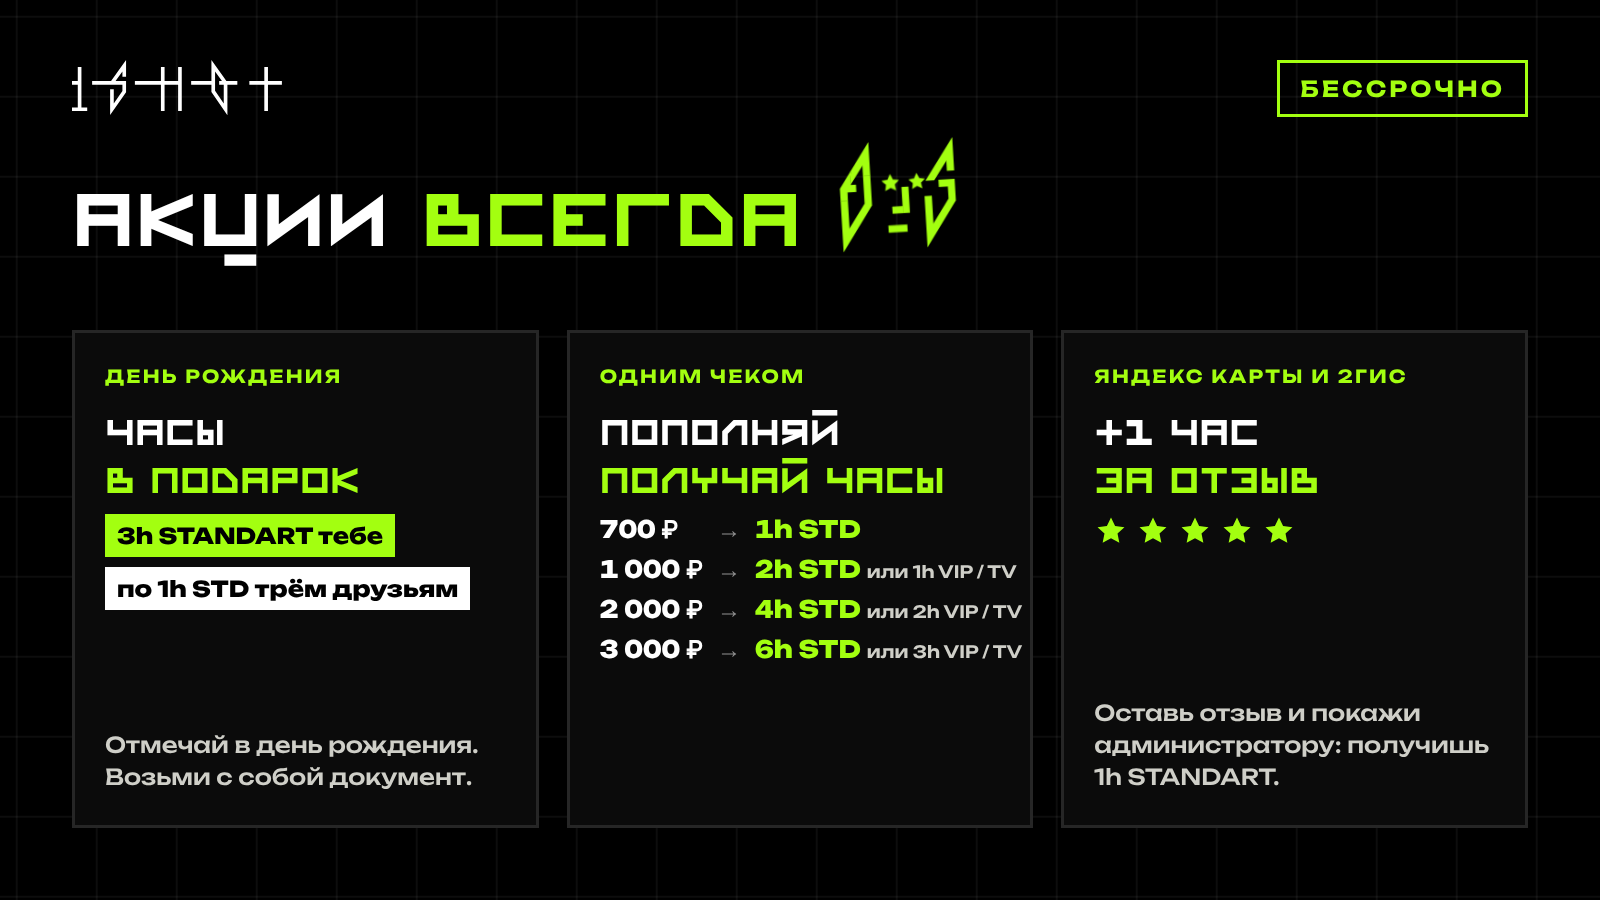
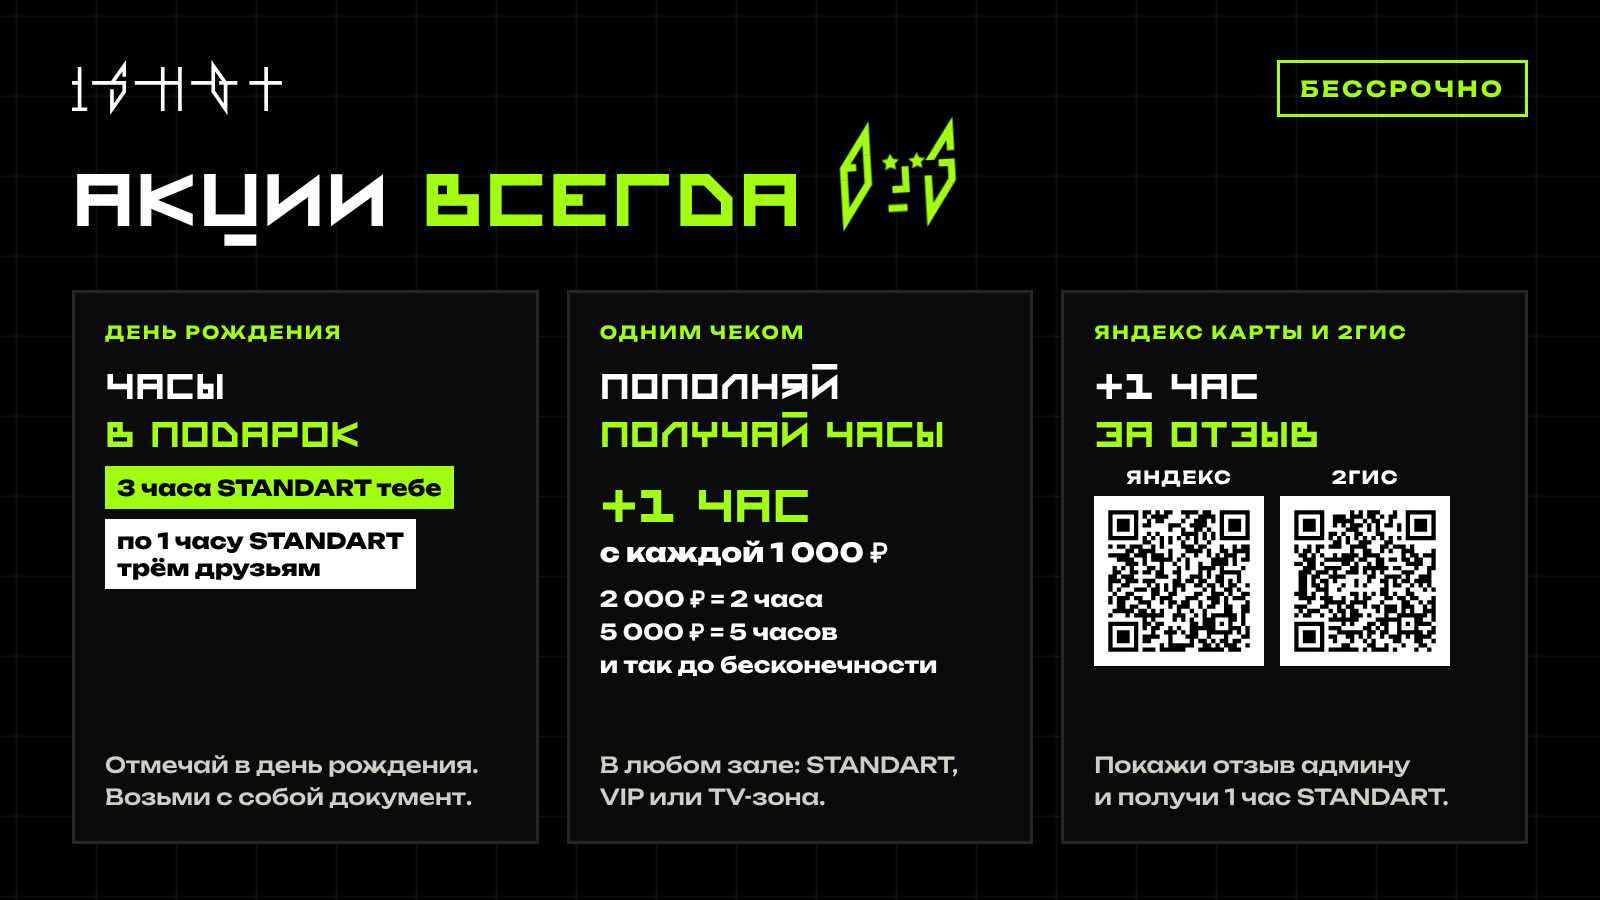
Gizmo news: simpler top-up rule, review QR codes, centred Telegram QR, full wording
Claude-Session: https://claude.ai/code/session_01PJSmFDhLML8SMzqyY2Sugp

diff --git a/docs/gizmo-news/0-always.html b/docs/gizmo-news/0-always.html
@@ -61,12 +61,18 @@ h1 .lime{color:var(--lime)}
 @keyframes canfloat{0%,100%{translate:0 0}50%{translate:0 -12px}}
 .age{display:inline-block;border:3px solid var(--lime);color:var(--lime);font:800 20px Unb;padding:4px 10px;margin-left:10px;vertical-align:middle}
 .m-stars #eyeL,.m-stars #eyeR{transform-box:fill-box;transform-origin:center;animation:twinkle 1.6s ease-in-out infinite}.m-stars #eyeR{animation-delay:.4s}
+.head{top:130px}.cards{top:290px;bottom:56px}.card{gap:14px;padding:28px 30px}
+.chip{line-height:1.25}
 .card h2{font-size:50px}
 .tb{display:grid;grid-template-columns:auto auto 1fr;gap:10px 14px;align-items:center;font:800 24px Unb;font-variant-numeric:tabular-nums;white-space:nowrap}
 .tb .a{color:var(--muted);font-weight:700}.tb .h{color:var(--lime)}
 .tb .o{font:600 17px Unb;color:#cfcfc8}
 .chip{display:inline-block;background:var(--lime);color:#000;font:800 22px Unb;padding:8px 12px}.chip.w{background:#fff}
 .chips{display:grid;gap:10px;justify-items:start}
+.plus1{display:grid;gap:6px}.plus1 b{font:700 64px/1 ReSquare,Unb;color:var(--lime)}.plus1 span{font:800 26px Unb}
+.ex{font:700 22px/1.5 Unb;color:#fff}
+.qrs{display:flex;gap:16px}.qrs>div{display:grid;gap:8px;justify-items:center;font:700 18px Unb;text-transform:uppercase;letter-spacing:.08em}
+.qrs .qrbox{padding:10px}.qrs .qr{width:150px;height:150px}
 .stars{display:flex;gap:8px}.star{width:34px;height:34px;fill:var(--lime);animation:star .5s ease both}
 @keyframes star{from{fill:#1a1a1a;transform:scale(.8)}to{fill:var(--lime);transform:scale(1)}}
 </style></head><body>
@@ -96,9 +102,9 @@ h1 .lime{color:var(--lime)}
 </g>
 </svg></div>
 <div class="cards">
- <div class="card" style="animation-delay:.6s"><i class="glow"></i><span class="d">День рождения</span><h2>Часы<br><span class="lime">в подарок</span></h2><div class="chips"><span class="chip">3h STANDART тебе</span><span class="chip w">по 1h STD трём друзьям</span></div><p class="note">Отмечай в день рождения.<br>Возьми с собой документ.</p></div>
- <div class="card" style="animation-delay:.8s"><i class="glow" style="animation-delay:1.5s"></i><span class="d">Одним чеком</span><h2>Пополняй<br><span class="lime">получай часы</span></h2><div class="tb"><span>700 ₽</span><span class="a">→</span><span class="h">1h STD</span><span>1 000 ₽</span><span class="a">→</span><span class="h">2h STD <span class="o">или 1h VIP / TV</span></span><span>2 000 ₽</span><span class="a">→</span><span class="h">4h STD <span class="o">или 2h VIP / TV</span></span><span>3 000 ₽</span><span class="a">→</span><span class="h">6h STD <span class="o">или 3h VIP / TV</span></span></div></div>
- <div class="card" style="animation-delay:1s"><i class="glow" style="animation-delay:3s"></i><span class="d">Яндекс Карты и 2ГИС</span><h2>+1 час<br><span class="lime">за отзыв</span></h2><div class="stars"><svg class="star" style="animation-delay:1.2s" viewBox="0 0 24 24"><path d="M12 2.5l2.9 6 6.6.8-4.9 4.5 1.3 6.5L12 17.1l-5.9 3.2 1.3-6.5L2.5 9.3l6.6-.8z"/></svg><svg class="star" style="animation-delay:1.3499999999999999s" viewBox="0 0 24 24"><path d="M12 2.5l2.9 6 6.6.8-4.9 4.5 1.3 6.5L12 17.1l-5.9 3.2 1.3-6.5L2.5 9.3l6.6-.8z"/></svg><svg class="star" style="animation-delay:1.5s" viewBox="0 0 24 24"><path d="M12 2.5l2.9 6 6.6.8-4.9 4.5 1.3 6.5L12 17.1l-5.9 3.2 1.3-6.5L2.5 9.3l6.6-.8z"/></svg><svg class="star" style="animation-delay:1.65s" viewBox="0 0 24 24"><path d="M12 2.5l2.9 6 6.6.8-4.9 4.5 1.3 6.5L12 17.1l-5.9 3.2 1.3-6.5L2.5 9.3l6.6-.8z"/></svg><svg class="star" style="animation-delay:1.7999999999999998s" viewBox="0 0 24 24"><path d="M12 2.5l2.9 6 6.6.8-4.9 4.5 1.3 6.5L12 17.1l-5.9 3.2 1.3-6.5L2.5 9.3l6.6-.8z"/></svg></div><p class="note">Оставь отзыв и покажи<br>администратору: получишь<br>1h STANDART.</p></div>
+ <div class="card" style="animation-delay:.6s"><i class="glow"></i><span class="d">День рождения</span><h2>Часы<br><span class="lime">в подарок</span></h2><div class="chips"><span class="chip">3 часа STANDART тебе</span><span class="chip w">по 1 часу STANDART<br>трём друзьям</span></div><p class="note">Отмечай в день рождения.<br>Возьми с собой документ.</p></div>
+ <div class="card" style="animation-delay:.8s"><i class="glow" style="animation-delay:1.5s"></i><span class="d">Одним чеком</span><h2>Пополняй<br><span class="lime">получай часы</span></h2><div class="plus1"><b>+1 час</b><span>с каждой 1 000 ₽</span></div><p class="ex">2 000 ₽ = 2 часа<br>5 000 ₽ = 5 часов<br>и так до бесконечности</p><p class="note">В любом зале: STANDART,<br>VIP или TV-зона.</p></div>
+ <div class="card" style="animation-delay:1s"><i class="glow" style="animation-delay:3s"></i><span class="d">Яндекс Карты и 2ГИС</span><h2>+1 час<br><span class="lime">за отзыв</span></h2><div class="qrs"><div><span>Яндекс</span><div class="qrbox"><svg class="qr" viewBox="0 0 35 35" aria-label="QR-код"><rect width="35" height="35" fill="#fff"/><path d="M1,1H2V2H1zM2,1H3V2H2zM3,1H4V2H3zM4,1H5V2H4zM5,1H6V2H5zM6,1H7V2H6zM7,1H8V2H7zM9,1H10V2H9zM10,1H11V2H10zM12,1H13V2H12zM14,1H15V2H14zM15,1H16V2H15zM18,1H19V2H18zM19,1H20V2H19zM20,1H21V2H20zM21,1H22V2H21zM23,1H24V2H23zM24,1H25V2H24zM27,1H28V2H27zM28,1H29V2H28zM29,1H30V2H29zM30,1H31V2H30zM31,1H32V2H31zM32,1H33V2H32zM33,1H34V2H33zM1,2H2V3H1zM7,2H8V3H7zM9,2H10V3H9zM11,2H12V3H11zM12,2H13V3H12zM13,2H14V3H13zM14,2H15V3H14zM19,2H20V3H19zM22,2H23V3H22zM23,2H24V3H23zM24,2H25V3H24zM25,2H26V3H25zM27,2H28V3H27zM33,2H34V3H33zM1,3H2V4H1zM3,3H4V4H3zM4,3H5V4H4zM5,3H6V4H5zM7,3H8V4H7zM10,3H11V4H10zM12,3H13V4H12zM13,3H14V4H13zM18,3H19V4H18zM21,3H22V4H21zM22,3H23V4H22zM23,3H24V4H23zM25,3H26V4H25zM27,3H28V4H27zM29,3H30V4H29zM30,3H31V4H30zM31,3H32V4H31zM33,3H34V4H33zM1,4H2V5H1zM3,4H4V5H3zM4,4H5V5H4zM5,4H6V5H5zM7,4H8V5H7zM9,4H10V5H9zM10,4H11V5H10zM15,4H16V5H15zM16,4H17V5H16zM17,4H18V5H17zM20,4H21V5H20zM21,4H22V5H21zM22,4H23V5H22zM23,4H24V5H23zM27,4H28V5H27zM29,4H30V5H29zM30,4H31V5H30zM31,4H32V5H31zM33,4H34V5H33zM1,5H2V6H1zM3,5H4V6H3zM4,5H5V6H4zM5,5H6V6H5zM7,5H8V6H7zM15,5H16V6H15zM18,5H19V6H18zM21,5H22V6H21zM22,5H23V6H22zM24,5H25V6H24zM27,5H28V6H27zM29,5H30V6H29zM30,5H31V6H30zM31,5H32V6H31zM33,5H34V6H33zM1,6H2V7H1zM7,6H8V7H7zM10,6H11V7H10zM12,6H13V7H12zM18,6H19V7H18zM19,6H20V7H19zM20,6H21V7H20zM21,6H22V7H21zM23,6H24V7H23zM25,6H26V7H25zM27,6H28V7H27zM33,6H34V7H33zM1,7H2V8H1zM2,7H3V8H2zM3,7H4V8H3zM4,7H5V8H4zM5,7H6V8H5zM6,7H7V8H6zM7,7H8V8H7zM9,7H10V8H9zM11,7H12V8H11zM13,7H14V8H13zM15,7H16V8H15zM17,7H18V8H17zM19,7H20V8H19zM21,7H22V8H21zM23,7H24V8H23zM25,7H26V8H25zM27,7H28V8H27zM28,7H29V8H28zM29,7H30V8H29zM30,7H31V8H30zM31,7H32V8H31zM32,7H33V8H32zM33,7H34V8H33zM9,8H10V9H9zM10,8H11V9H10zM13,8H14V9H13zM15,8H16V9H15zM18,8H19V9H18zM21,8H22V9H21zM24,8H25V9H24zM1,9H2V10H1zM3,9H4V10H3zM4,9H5V10H4zM6,9H7V10H6zM7,9H8V10H7zM8,9H9V10H8zM11,9H12V10H11zM13,9H14V10H13zM18,9H19V10H18zM19,9H20V10H19zM20,9H21V10H20zM22,9H23V10H22zM23,9H24V10H23zM27,9H28V10H27zM30,9H31V10H30zM32,9H33V10H32zM33,9H34V10H33zM5,10H6V11H5zM6,10H7V11H6zM8,10H9V11H8zM9,10H10V11H9zM10,10H11V11H10zM11,10H12V11H11zM15,10H16V11H15zM19,10H20V11H19zM20,10H21V11H20zM21,10H22V11H21zM22,10H23V11H22zM24,10H25V11H24zM27,10H28V11H27zM28,10H29V11H28zM30,10H31V11H30zM31,10H32V11H31zM32,10H33V11H32zM33,10H34V11H33zM1,11H2V12H1zM2,11H3V12H2zM3,11H4V12H3zM4,11H5V12H4zM5,11H6V12H5zM7,11H8V12H7zM8,11H9V12H8zM9,11H10V12H9zM11,11H12V12H11zM12,11H13V12H12zM13,11H14V12H13zM15,11H16V12H15zM18,11H19V12H18zM21,11H22V12H21zM24,11H25V12H24zM26,11H27V12H26zM28,11H29V12H28zM29,11H30V12H29zM30,11H31V12H30zM33,11H34V12H33zM3,12H4V13H3zM4,12H5V13H4zM5,12H6V13H5zM6,12H7V13H6zM9,12H10V13H9zM11,12H12V13H11zM12,12H13V13H12zM13,12H14V13H13zM14,12H15V13H14zM15,12H16V13H15zM17,12H18V13H17zM19,12H20V13H19zM25,12H26V13H25zM26,12H27V13H26zM27,12H28V13H27zM28,12H29V13H28zM30,12H31V13H30zM32,12H33V13H32zM33,12H34V13H33zM5,13H6V14H5zM6,13H7V14H6zM7,13H8V14H7zM9,13H10V14H9zM13,13H14V14H13zM16,13H17V14H16zM19,13H20V14H19zM22,13H23V14H22zM25,13H26V14H25zM26,13H27V14H26zM27,13H28V14H27zM28,13H29V14H28zM30,13H31V14H30zM2,14H3V15H2zM4,14H5V15H4zM6,14H7V15H6zM10,14H11V15H10zM11,14H12V15H11zM13,14H14V15H13zM17,14H18V15H17zM19,14H20V15H19zM22,14H23V15H22zM23,14H24V15H23zM24,14H25V15H24zM25,14H26V15H25zM27,14H28V15H27zM32,14H33V15H32zM2,15H3V16H2zM3,15H4V16H3zM6,15H7V16H6zM7,15H8V16H7zM9,15H10V16H9zM10,15H11V16H10zM12,15H13V16H12zM13,15H14V16H13zM16,15H17V16H16zM17,15H18V16H17zM22,15H23V16H22zM24,15H25V16H24zM27,15H28V16H27zM28,15H29V16H28zM29,15H30V16H29zM30,15H31V16H30zM31,15H32V16H31zM1,16H2V17H1zM2,16H3V17H2zM4,16H5V17H4zM5,16H6V17H5zM6,16H7V17H6zM12,16H13V17H12zM13,16H14V17H13zM14,16H15V17H14zM17,16H18V17H17zM20,16H21V17H20zM21,16H22V17H21zM22,16H23V17H22zM24,16H25V17H24zM26,16H27V17H26zM27,16H28V17H27zM31,16H32V17H31zM1,17H2V18H1zM2,17H3V18H2zM3,17H4V18H3zM5,17H6V18H5zM6,17H7V18H6zM7,17H8V18H7zM9,17H10V18H9zM10,17H11V18H10zM11,17H12V18H11zM16,17H17V18H16zM17,17H18V18H17zM19,17H20V18H19zM20,17H21V18H20zM22,17H23V18H22zM23,17H24V18H23zM26,17H27V18H26zM27,17H28V18H27zM29,17H30V18H29zM31,17H32V18H31zM1,18H2V19H1zM4,18H5V19H4zM5,18H6V19H5zM10,18H11V19H10zM12,18H13V19H12zM14,18H15V19H14zM16,18H17V19H16zM17,18H18V19H17zM18,18H19V19H18zM21,18H22V19H21zM22,18H23V19H22zM24,18H25V19H24zM25,18H26V19H25zM27,18H28V19H27zM29,18H30V19H29zM30,18H31V19H30zM33,18H34V19H33zM1,19H2V20H1zM3,19H4V20H3zM7,19H8V20H7zM8,19H9V20H8zM9,19H10V20H9zM11,19H12V20H11zM12,19H13V20H12zM14,19H15V20H14zM16,19H17V20H16zM18,19H19V20H18zM23,19H24V20H23zM25,19H26V20H25zM28,19H29V20H28zM29,19H30V20H29zM31,19H32V20H31zM2,20H3V21H2zM5,20H6V21H5zM6,20H7V21H6zM11,20H12V21H11zM12,20H13V21H12zM15,20H16V21H15zM16,20H17V21H16zM21,20H22V21H21zM22,20H23V21H22zM25,20H26V21H25zM26,20H27V21H26zM27,20H28V21H27zM29,20H30V21H29zM32,20H33V21H32zM33,20H34V21H33zM1,21H2V22H1zM3,21H4V22H3zM4,21H5V22H4zM5,21H6V22H5zM7,21H8V22H7zM8,21H9V22H8zM11,21H12V22H11zM13,21H14V22H13zM14,21H15V22H14zM15,21H16V22H15zM19,21H20V22H19zM20,21H21V22H20zM21,21H22V22H21zM24,21H25V22H24zM25,21H26V22H25zM26,21H27V22H26zM28,21H29V22H28zM30,21H31V22H30zM31,21H32V22H31zM32,21H33V22H32zM1,22H2V23H1zM3,22H4V23H3zM4,22H5V23H4zM8,22H9V23H8zM9,22H10V23H9zM10,22H11V23H10zM13,22H14V23H13zM15,22H16V23H15zM16,22H17V23H16zM18,22H19V23H18zM19,22H20V23H19zM22,22H23V23H22zM25,22H26V23H25zM26,22H27V23H26zM28,22H29V23H28zM33,22H34V23H33zM3,23H4V24H3zM4,23H5V24H4zM6,23H7V24H6zM7,23H8V24H7zM10,23H11V24H10zM15,23H16V24H15zM17,23H18V24H17zM18,23H19V24H18zM19,23H20V24H19zM22,23H23V24H22zM24,23H25V24H24zM25,23H26V24H25zM28,23H29V24H28zM29,23H30V24H29zM32,23H33V24H32zM33,23H34V24H33zM2,24H3V25H2zM3,24H4V25H3zM4,24H5V25H4zM5,24H6V25H5zM6,24H7V25H6zM8,24H9V25H8zM9,24H10V25H9zM11,24H12V25H11zM13,24H14V25H13zM17,24H18V25H17zM20,24H21V25H20zM23,24H24V25H23zM28,24H29V25H28zM29,24H30V25H29zM32,24H33V25H32zM33,24H34V25H33zM1,25H2V26H1zM5,25H6V26H5zM7,25H8V26H7zM8,25H9V26H8zM9,25H10V26H9zM10,25H11V26H10zM11,25H12V26H11zM12,25H13V26H12zM13,25H14V26H13zM16,25H17V26H16zM17,25H18V26H17zM18,25H19V26H18zM21,25H22V26H21zM23,25H24V26H23zM25,25H26V26H25zM26,25H27V26H26zM27,25H28V26H27zM28,25H29V26H28zM29,25H30V26H29zM30,25H31V26H30zM32,25H33V26H32zM9,26H10V27H9zM11,26H12V27H11zM16,26H17V27H16zM18,26H19V27H18zM20,26H21V27H20zM23,26H24V27H23zM24,26H25V27H24zM25,26H26V27H25zM29,26H30V27H29zM30,26H31V27H30zM32,26H33V27H32zM1,27H2V28H1zM2,27H3V28H2zM3,27H4V28H3zM4,27H5V28H4zM5,27H6V28H5zM6,27H7V28H6zM7,27H8V28H7zM9,27H10V28H9zM10,27H11V28H10zM12,27H13V28H12zM13,27H14V28H13zM20,27H21V28H20zM21,27H22V28H21zM23,27H24V28H23zM24,27H25V28H24zM25,27H26V28H25zM27,27H28V28H27zM29,27H30V28H29zM32,27H33V28H32zM1,28H2V29H1zM7,28H8V29H7zM9,28H10V29H9zM11,28H12V29H11zM12,28H13V29H12zM15,28H16V29H15zM17,28H18V29H17zM20,28H21V29H20zM21,28H22V29H21zM22,28H23V29H22zM23,28H24V29H23zM24,28H25V29H24zM25,28H26V29H25zM29,28H30V29H29zM30,28H31V29H30zM31,28H32V29H31zM33,28H34V29H33zM1,29H2V30H1zM3,29H4V30H3zM4,29H5V30H4zM5,29H6V30H5zM7,29H8V30H7zM11,29H12V30H11zM14,29H15V30H14zM15,29H16V30H15zM16,29H17V30H16zM18,29H19V30H18zM20,29H21V30H20zM21,29H22V30H21zM24,29H25V30H24zM25,29H26V30H25zM26,29H27V30H26zM27,29H28V30H27zM28,29H29V30H28zM29,29H30V30H29zM31,29H32V30H31zM33,29H34V30H33zM1,30H2V31H1zM3,30H4V31H3zM4,30H5V31H4zM5,30H6V31H5zM7,30H8V31H7zM9,30H10V31H9zM10,30H11V31H10zM11,30H12V31H11zM12,30H13V31H12zM15,30H16V31H15zM19,30H20V31H19zM20,30H21V31H20zM21,30H22V31H21zM24,30H25V31H24zM28,30H29V31H28zM32,30H33V31H32zM33,30H34V31H33zM1,31H2V32H1zM3,31H4V32H3zM4,31H5V32H4zM5,31H6V32H5zM7,31H8V32H7zM9,31H10V32H9zM10,31H11V32H10zM15,31H16V32H15zM20,31H21V32H20zM22,31H23V32H22zM23,31H24V32H23zM25,31H26V32H25zM27,31H28V32H27zM28,31H29V32H28zM30,31H31V32H30zM31,31H32V32H31zM1,32H2V33H1zM7,32H8V33H7zM13,32H14V33H13zM15,32H16V33H15zM16,32H17V33H16zM17,32H18V33H17zM18,32H19V33H18zM19,32H20V33H19zM20,32H21V33H20zM23,32H24V33H23zM24,32H25V33H24zM26,32H27V33H26zM28,32H29V33H28zM29,32H30V33H29zM30,32H31V33H30zM33,32H34V33H33zM1,33H2V34H1zM2,33H3V34H2zM3,33H4V34H3zM4,33H5V34H4zM5,33H6V34H5zM6,33H7V34H6zM7,33H8V34H7zM9,33H10V34H9zM10,33H11V34H10zM11,33H12V34H11zM13,33H14V34H13zM14,33H15V34H14zM15,33H16V34H15zM16,33H17V34H16zM17,33H18V34H17zM18,33H19V34H18zM22,33H23V34H22zM23,33H24V34H23zM24,33H25V34H24zM25,33H26V34H25zM26,33H27V34H26zM27,33H28V34H27zM29,33H30V34H29zM30,33H31V34H30zM31,33H32V34H31z" fill="#000"/></svg></div></div><div><span>2ГИС</span><div class="qrbox"><svg class="qr" viewBox="0 0 35 35" aria-label="QR-код"><rect width="35" height="35" fill="#fff"/><path d="M1,1H2V2H1zM2,1H3V2H2zM3,1H4V2H3zM4,1H5V2H4zM5,1H6V2H5zM6,1H7V2H6zM7,1H8V2H7zM14,1H15V2H14zM16,1H17V2H16zM18,1H19V2H18zM19,1H20V2H19zM20,1H21V2H20zM24,1H25V2H24zM27,1H28V2H27zM28,1H29V2H28zM29,1H30V2H29zM30,1H31V2H30zM31,1H32V2H31zM32,1H33V2H32zM33,1H34V2H33zM1,2H2V3H1zM7,2H8V3H7zM10,2H11V3H10zM11,2H12V3H11zM12,2H13V3H12zM14,2H15V3H14zM15,2H16V3H15zM16,2H17V3H16zM18,2H19V3H18zM19,2H20V3H19zM21,2H22V3H21zM23,2H24V3H23zM24,2H25V3H24zM27,2H28V3H27zM33,2H34V3H33zM1,3H2V4H1zM3,3H4V4H3zM4,3H5V4H4zM5,3H6V4H5zM7,3H8V4H7zM10,3H11V4H10zM11,3H12V4H11zM12,3H13V4H12zM13,3H14V4H13zM14,3H15V4H14zM17,3H18V4H17zM19,3H20V4H19zM20,3H21V4H20zM23,3H24V4H23zM27,3H28V4H27zM29,3H30V4H29zM30,3H31V4H30zM31,3H32V4H31zM33,3H34V4H33zM1,4H2V5H1zM3,4H4V5H3zM4,4H5V5H4zM5,4H6V5H5zM7,4H8V5H7zM10,4H11V5H10zM12,4H13V5H12zM14,4H15V5H14zM15,4H16V5H15zM16,4H17V5H16zM18,4H19V5H18zM20,4H21V5H20zM22,4H23V5H22zM23,4H24V5H23zM25,4H26V5H25zM27,4H28V5H27zM29,4H30V5H29zM30,4H31V5H30zM31,4H32V5H31zM33,4H34V5H33zM1,5H2V6H1zM3,5H4V6H3zM4,5H5V6H4zM5,5H6V6H5zM7,5H8V6H7zM13,5H14V6H13zM14,5H15V6H14zM15,5H16V6H15zM18,5H19V6H18zM20,5H21V6H20zM25,5H26V6H25zM27,5H28V6H27zM29,5H30V6H29zM30,5H31V6H30zM31,5H32V6H31zM33,5H34V6H33zM1,6H2V7H1zM7,6H8V7H7zM9,6H10V7H9zM10,6H11V7H10zM12,6H13V7H12zM15,6H16V7H15zM16,6H17V7H16zM20,6H21V7H20zM21,6H22V7H21zM27,6H28V7H27zM33,6H34V7H33zM1,7H2V8H1zM2,7H3V8H2zM3,7H4V8H3zM4,7H5V8H4zM5,7H6V8H5zM6,7H7V8H6zM7,7H8V8H7zM9,7H10V8H9zM11,7H12V8H11zM13,7H14V8H13zM15,7H16V8H15zM17,7H18V8H17zM19,7H20V8H19zM21,7H22V8H21zM23,7H24V8H23zM25,7H26V8H25zM27,7H28V8H27zM28,7H29V8H28zM29,7H30V8H29zM30,7H31V8H30zM31,7H32V8H31zM32,7H33V8H32zM33,7H34V8H33zM10,8H11V9H10zM11,8H12V9H11zM13,8H14V9H13zM16,8H17V9H16zM17,8H18V9H17zM18,8H19V9H18zM22,8H23V9H22zM23,8H24V9H23zM1,9H2V10H1zM4,9H5V10H4zM6,9H7V10H6zM7,9H8V10H7zM9,9H10V10H9zM10,9H11V10H10zM11,9H12V10H11zM14,9H15V10H14zM15,9H16V10H15zM16,9H17V10H16zM17,9H18V10H17zM21,9H22V10H21zM22,9H23V10H22zM24,9H25V10H24zM25,9H26V10H25zM26,9H27V10H26zM28,9H29V10H28zM1,10H2V11H1zM3,10H4V11H3zM4,10H5V11H4zM6,10H7V11H6zM14,10H15V11H14zM17,10H18V11H17zM18,10H19V11H18zM21,10H22V11H21zM23,10H24V11H23zM26,10H27V11H26zM27,10H28V11H27zM28,10H29V11H28zM33,10H34V11H33zM2,11H3V12H2zM3,11H4V12H3zM5,11H6V12H5zM7,11H8V12H7zM10,11H11V12H10zM12,11H13V12H12zM13,11H14V12H13zM14,11H15V12H14zM15,11H16V12H15zM17,11H18V12H17zM18,11H19V12H18zM19,11H20V12H19zM20,11H21V12H20zM26,11H27V12H26zM28,11H29V12H28zM29,11H30V12H29zM31,11H32V12H31zM32,11H33V12H32zM33,11H34V12H33zM3,12H4V13H3zM4,12H5V13H4zM5,12H6V13H5zM8,12H9V13H8zM9,12H10V13H9zM10,12H11V13H10zM11,12H12V13H11zM12,12H13V13H12zM13,12H14V13H13zM14,12H15V13H14zM16,12H17V13H16zM17,12H18V13H17zM20,12H21V13H20zM21,12H22V13H21zM23,12H24V13H23zM24,12H25V13H24zM26,12H27V13H26zM27,12H28V13H27zM29,12H30V13H29zM30,12H31V13H30zM33,12H34V13H33zM1,13H2V14H1zM2,13H3V14H2zM4,13H5V14H4zM5,13H6V14H5zM7,13H8V14H7zM12,13H13V14H12zM13,13H14V14H13zM15,13H16V14H15zM18,13H19V14H18zM20,13H21V14H20zM21,13H22V14H21zM27,13H28V14H27zM28,13H29V14H28zM29,13H30V14H29zM30,13H31V14H30zM33,13H34V14H33zM3,14H4V15H3zM4,14H5V15H4zM5,14H6V15H5zM8,14H9V15H8zM9,14H10V15H9zM10,14H11V15H10zM11,14H12V15H11zM14,14H15V15H14zM15,14H16V15H15zM17,14H18V15H17zM18,14H19V15H18zM19,14H20V15H19zM20,14H21V15H20zM21,14H22V15H21zM22,14H23V15H22zM24,14H25V15H24zM25,14H26V15H25zM29,14H30V15H29zM32,14H33V15H32zM33,14H34V15H33zM2,15H3V16H2zM3,15H4V16H3zM4,15H5V16H4zM6,15H7V16H6zM7,15H8V16H7zM8,15H9V16H8zM10,15H11V16H10zM13,15H14V16H13zM14,15H15V16H14zM15,15H16V16H15zM17,15H18V16H17zM19,15H20V16H19zM21,15H22V16H21zM26,15H27V16H26zM27,15H28V16H27zM28,15H29V16H28zM32,15H33V16H32zM2,16H3V17H2zM3,16H4V17H3zM5,16H6V17H5zM6,16H7V17H6zM9,16H10V17H9zM10,16H11V17H10zM11,16H12V17H11zM12,16H13V17H12zM18,16H19V17H18zM19,16H20V17H19zM22,16H23V17H22zM23,16H24V17H23zM24,16H25V17H24zM25,16H26V17H25zM27,16H28V17H27zM30,16H31V17H30zM31,16H32V17H31zM32,16H33V17H32zM2,17H3V18H2zM3,17H4V18H3zM5,17H6V18H5zM7,17H8V18H7zM8,17H9V18H8zM10,17H11V18H10zM15,17H16V18H15zM18,17H19V18H18zM21,17H22V18H21zM22,17H23V18H22zM24,17H25V18H24zM26,17H27V18H26zM27,17H28V18H27zM29,17H30V18H29zM30,17H31V18H30zM31,17H32V18H31zM32,17H33V18H32zM2,18H3V19H2zM3,18H4V19H3zM5,18H6V19H5zM6,18H7V19H6zM8,18H9V19H8zM12,18H13V19H12zM15,18H16V19H15zM17,18H18V19H17zM22,18H23V19H22zM24,18H25V19H24zM25,18H26V19H25zM28,18H29V19H28zM30,18H31V19H30zM32,18H33V19H32zM2,19H3V20H2zM3,19H4V20H3zM6,19H7V20H6zM7,19H8V20H7zM8,19H9V20H8zM11,19H12V20H11zM21,19H22V20H21zM22,19H23V20H22zM27,19H28V20H27zM31,19H32V20H31zM33,19H34V20H33zM1,20H2V21H1zM2,20H3V21H2zM3,20H4V21H3zM5,20H6V21H5zM8,20H9V21H8zM14,20H15V21H14zM15,20H16V21H15zM17,20H18V21H17zM19,20H20V21H19zM21,20H22V21H21zM22,20H23V21H22zM24,20H25V21H24zM27,20H28V21H27zM28,20H29V21H28zM2,21H3V22H2zM3,21H4V22H3zM4,21H5V22H4zM5,21H6V22H5zM7,21H8V22H7zM8,21H9V22H8zM9,21H10V22H9zM12,21H13V22H12zM15,21H16V22H15zM17,21H18V22H17zM18,21H19V22H18zM22,21H23V22H22zM23,21H24V22H23zM25,21H26V22H25zM26,21H27V22H26zM28,21H29V22H28zM29,21H30V22H29zM33,21H34V22H33zM4,22H5V23H4zM8,22H9V23H8zM9,22H10V23H9zM10,22H11V23H10zM11,22H12V23H11zM12,22H13V23H12zM14,22H15V23H14zM15,22H16V23H15zM16,22H17V23H16zM17,22H18V23H17zM21,22H22V23H21zM26,22H27V23H26zM27,22H28V23H27zM30,22H31V23H30zM32,22H33V23H32zM33,22H34V23H33zM1,23H2V24H1zM2,23H3V24H2zM3,23H4V24H3zM7,23H8V24H7zM8,23H9V24H8zM11,23H12V24H11zM13,23H14V24H13zM14,23H15V24H14zM17,23H18V24H17zM19,23H20V24H19zM20,23H21V24H20zM22,23H23V24H22zM23,23H24V24H23zM24,23H25V24H24zM26,23H27V24H26zM27,23H28V24H27zM28,23H29V24H28zM31,23H32V24H31zM33,23H34V24H33zM2,24H3V25H2zM4,24H5V25H4zM5,24H6V25H5zM6,24H7V25H6zM9,24H10V25H9zM11,24H12V25H11zM12,24H13V25H12zM14,24H15V25H14zM15,24H16V25H15zM20,24H21V25H20zM22,24H23V25H22zM23,24H24V25H23zM24,24H25V25H24zM26,24H27V25H26zM28,24H29V25H28zM31,24H32V25H31zM32,24H33V25H32zM33,24H34V25H33zM1,25H2V26H1zM3,25H4V26H3zM4,25H5V26H4zM7,25H8V26H7zM10,25H11V26H10zM12,25H13V26H12zM14,25H15V26H14zM15,25H16V26H15zM16,25H17V26H16zM18,25H19V26H18zM22,25H23V26H22zM25,25H26V26H25zM26,25H27V26H26zM27,25H28V26H27zM28,25H29V26H28zM29,25H30V26H29zM30,25H31V26H30zM31,25H32V26H31zM33,25H34V26H33zM9,26H10V27H9zM10,26H11V27H10zM11,26H12V27H11zM12,26H13V27H12zM13,26H14V27H13zM14,26H15V27H14zM15,26H16V27H15zM20,26H21V27H20zM21,26H22V27H21zM22,26H23V27H22zM23,26H24V27H23zM24,26H25V27H24zM25,26H26V27H25zM29,26H30V27H29zM30,26H31V27H30zM33,26H34V27H33zM1,27H2V28H1zM2,27H3V28H2zM3,27H4V28H3zM4,27H5V28H4zM5,27H6V28H5zM6,27H7V28H6zM7,27H8V28H7zM12,27H13V28H12zM14,27H15V28H14zM18,27H19V28H18zM19,27H20V28H19zM21,27H22V28H21zM22,27H23V28H22zM25,27H26V28H25zM27,27H28V28H27zM29,27H30V28H29zM30,27H31V28H30zM31,27H32V28H31zM32,27H33V28H32zM1,28H2V29H1zM7,28H8V29H7zM9,28H10V29H9zM10,28H11V29H10zM11,28H12V29H11zM17,28H18V29H17zM18,28H19V29H18zM20,28H21V29H20zM22,28H23V29H22zM25,28H26V29H25zM29,28H30V29H29zM33,28H34V29H33zM1,29H2V30H1zM3,29H4V30H3zM4,29H5V30H4zM5,29H6V30H5zM7,29H8V30H7zM11,29H12V30H11zM12,29H13V30H12zM13,29H14V30H13zM14,29H15V30H14zM15,29H16V30H15zM16,29H17V30H16zM18,29H19V30H18zM19,29H20V30H19zM21,29H22V30H21zM22,29H23V30H22zM25,29H26V30H25zM26,29H27V30H26zM27,29H28V30H27zM28,29H29V30H28zM29,29H30V30H29zM30,29H31V30H30zM32,29H33V30H32zM33,29H34V30H33zM1,30H2V31H1zM3,30H4V31H3zM4,30H5V31H4zM5,30H6V31H5zM7,30H8V31H7zM9,30H10V31H9zM10,30H11V31H10zM13,30H14V31H13zM14,30H15V31H14zM16,30H17V31H16zM18,30H19V31H18zM21,30H22V31H21zM23,30H24V31H23zM24,30H25V31H24zM25,30H26V31H25zM27,30H28V31H27zM29,30H30V31H29zM30,30H31V31H30zM31,30H32V31H31zM32,30H33V31H32zM1,31H2V32H1zM3,31H4V32H3zM4,31H5V32H4zM5,31H6V32H5zM7,31H8V32H7zM10,31H11V32H10zM14,31H15V32H14zM17,31H18V32H17zM19,31H20V32H19zM24,31H25V32H24zM25,31H26V32H25zM29,31H30V32H29zM30,31H31V32H30zM33,31H34V32H33zM1,32H2V33H1zM7,32H8V33H7zM12,32H13V33H12zM13,32H14V33H13zM18,32H19V33H18zM19,32H20V33H19zM22,32H23V33H22zM26,32H27V33H26zM30,32H31V33H30zM31,32H32V33H31zM1,33H2V34H1zM2,33H3V34H2zM3,33H4V34H3zM4,33H5V34H4zM5,33H6V34H5zM6,33H7V34H6zM7,33H8V34H7zM9,33H10V34H9zM10,33H11V34H10zM11,33H12V34H11zM12,33H13V34H12zM13,33H14V34H13zM14,33H15V34H14zM15,33H16V34H15zM17,33H18V34H17zM19,33H20V34H19zM20,33H21V34H20zM21,33H22V34H21zM22,33H23V34H22zM24,33H25V34H24zM29,33H30V34H29zM32,33H33V34H32z" fill="#000"/></svg></div></div></div><p class="note">Покажи отзыв админу<br>и получи 1 час STANDART.</p></div>
 </div></div><script>
 // Fit the 1600x900 stage into whatever frame Gizmo gives the news item.
 const stage=document.querySelector('.stage');

diff --git a/docs/gizmo-news/2-subscribe-telegram.html b/docs/gizmo-news/2-subscribe-telegram.html
@@ -49,7 +49,7 @@ h1 .lime{color:var(--lime)}
 .big{font:700 34px/1.4 Unb}.big b{color:var(--lime)}
 .card{position:absolute;right:150px;top:170px;width:400px;border:3px solid var(--lime);padding:28px;display:grid;gap:20px;justify-items:center;background:#0b0b0b;animation:cardfade .8s ease both;box-shadow:0 0 60px #a3ff1030}
 @keyframes cardfade{from{opacity:0}to{opacity:1}}
-.card .qr{width:320px;height:320px}
+.card .qr{width:300px;height:300px}
 .card h2{font:700 34px/1 ReSquare,Unb;text-transform:uppercase;display:flex;gap:12px;align-items:center}.card h2 svg{width:38px;height:38px}
 .card .pill{font-size:32px;animation:pulse 2.4s ease-in-out infinite}
 @keyframes pulse{0%,100%{transform:scale(1)}50%{transform:scale(1.08)}}
